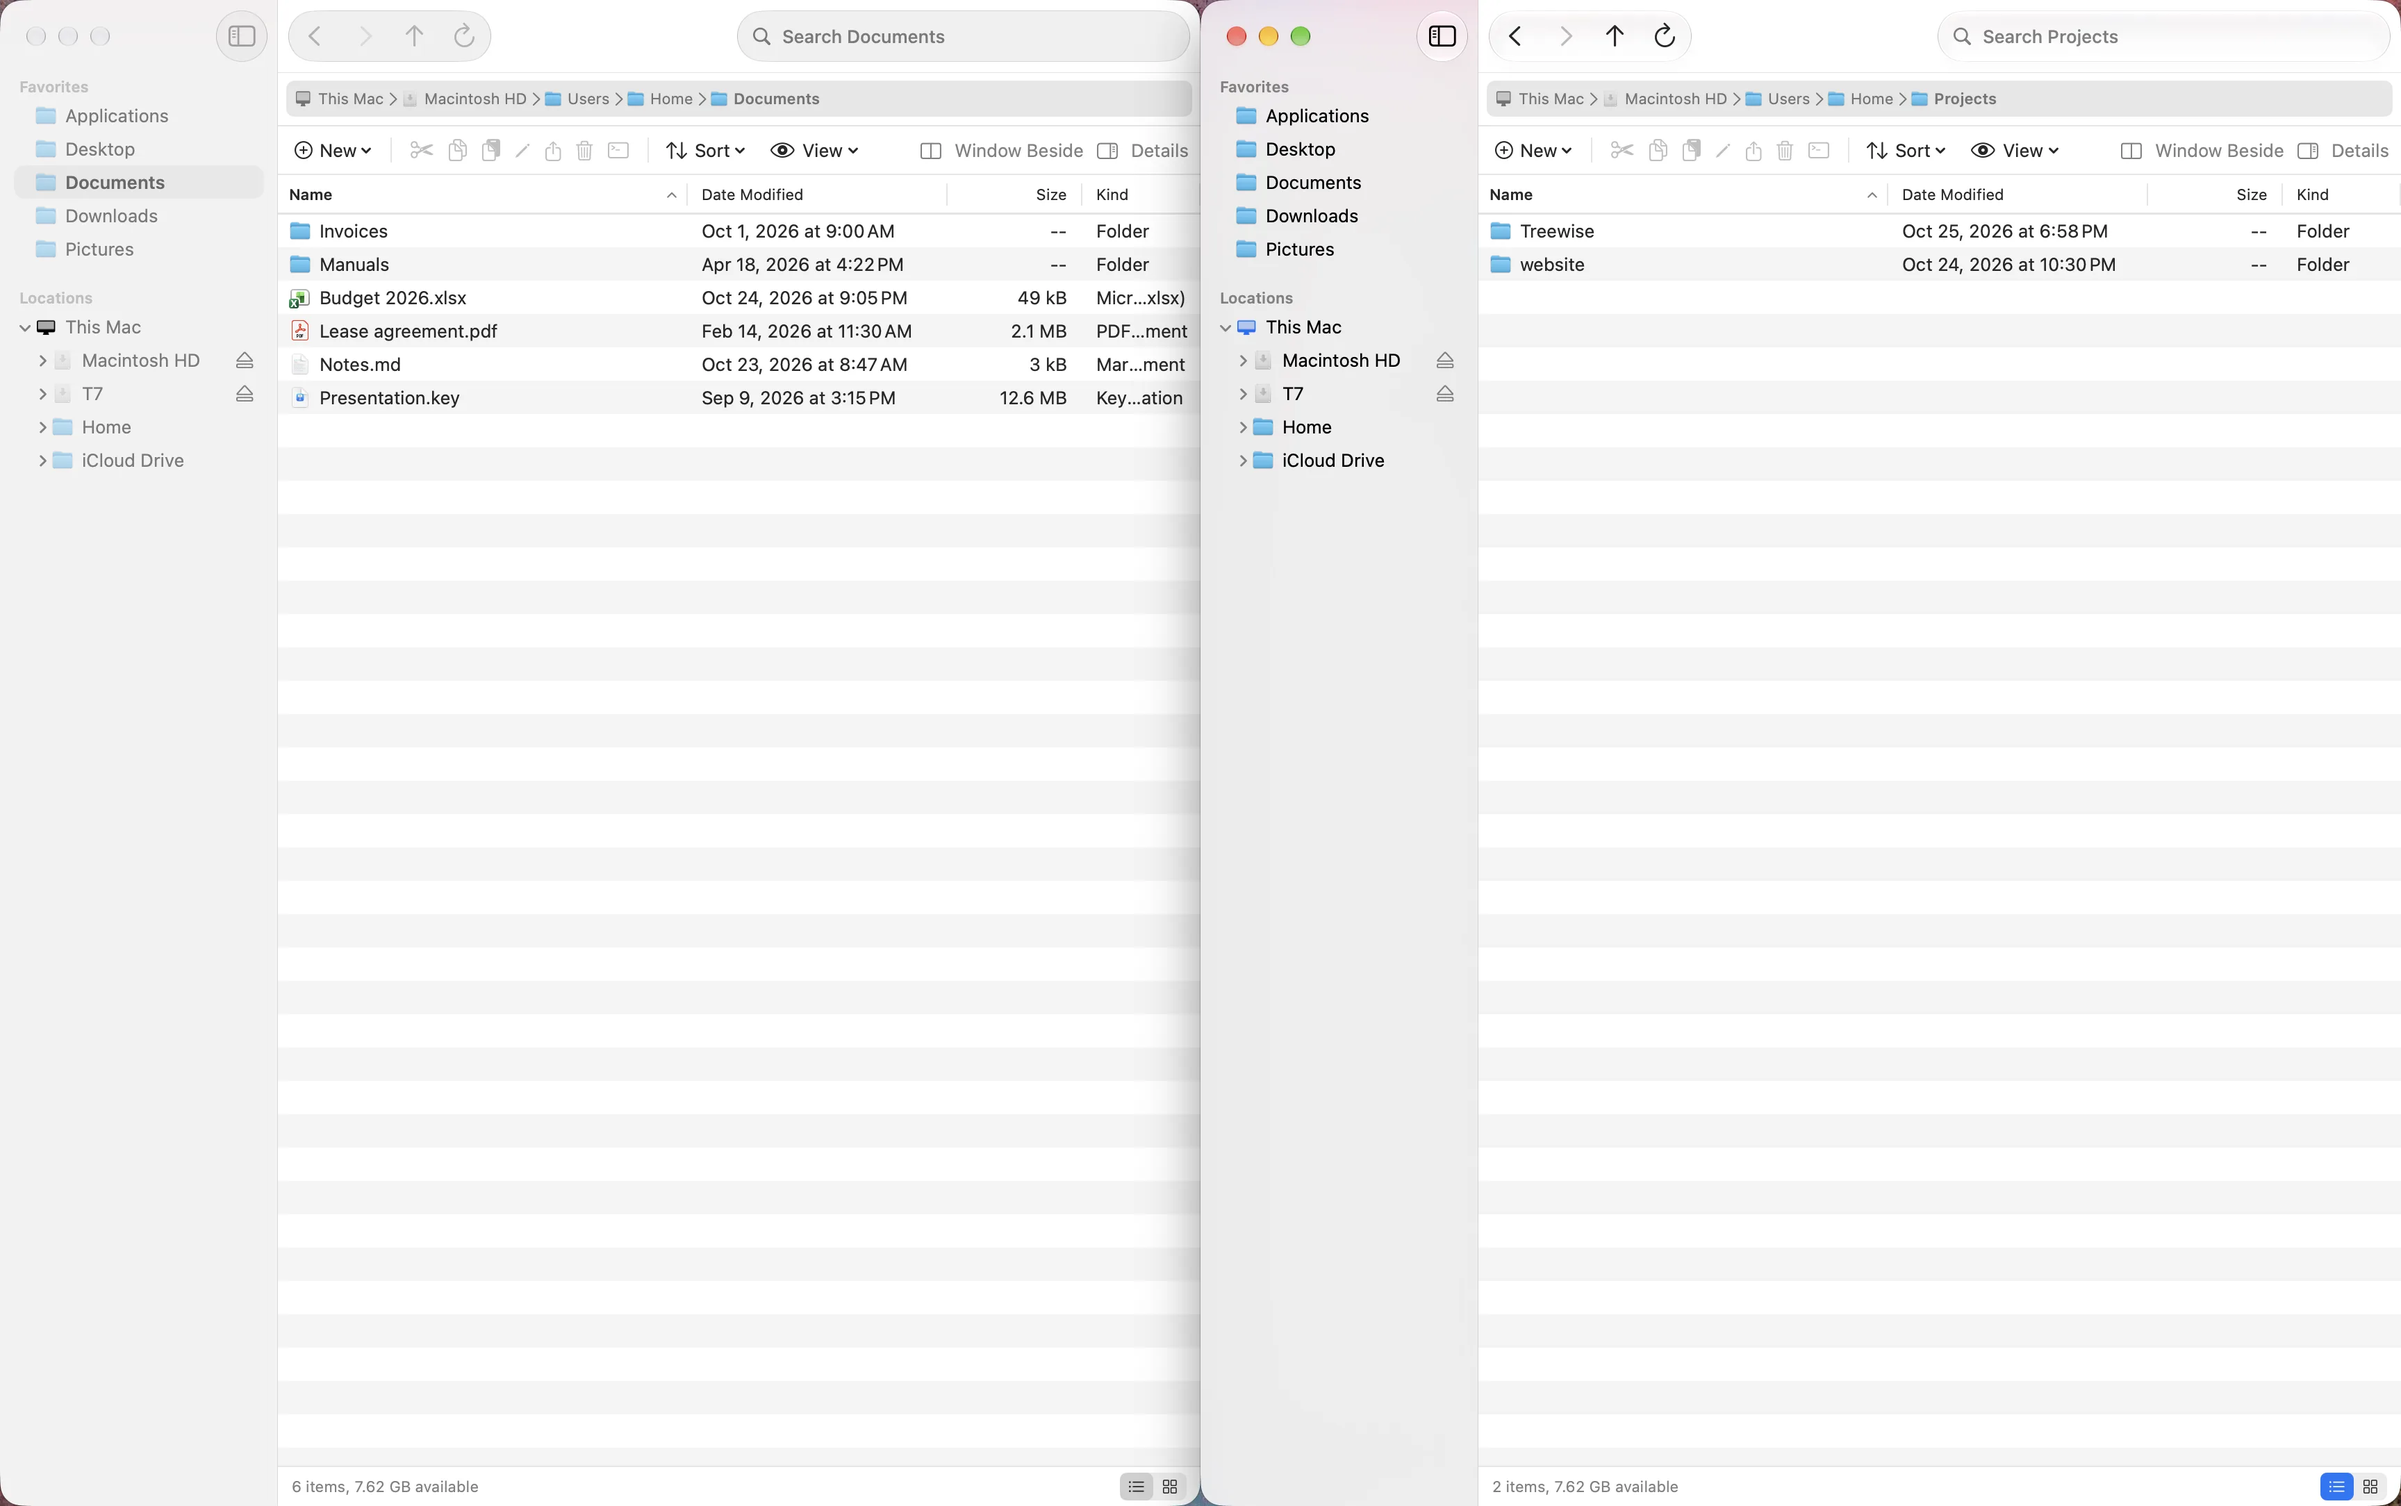
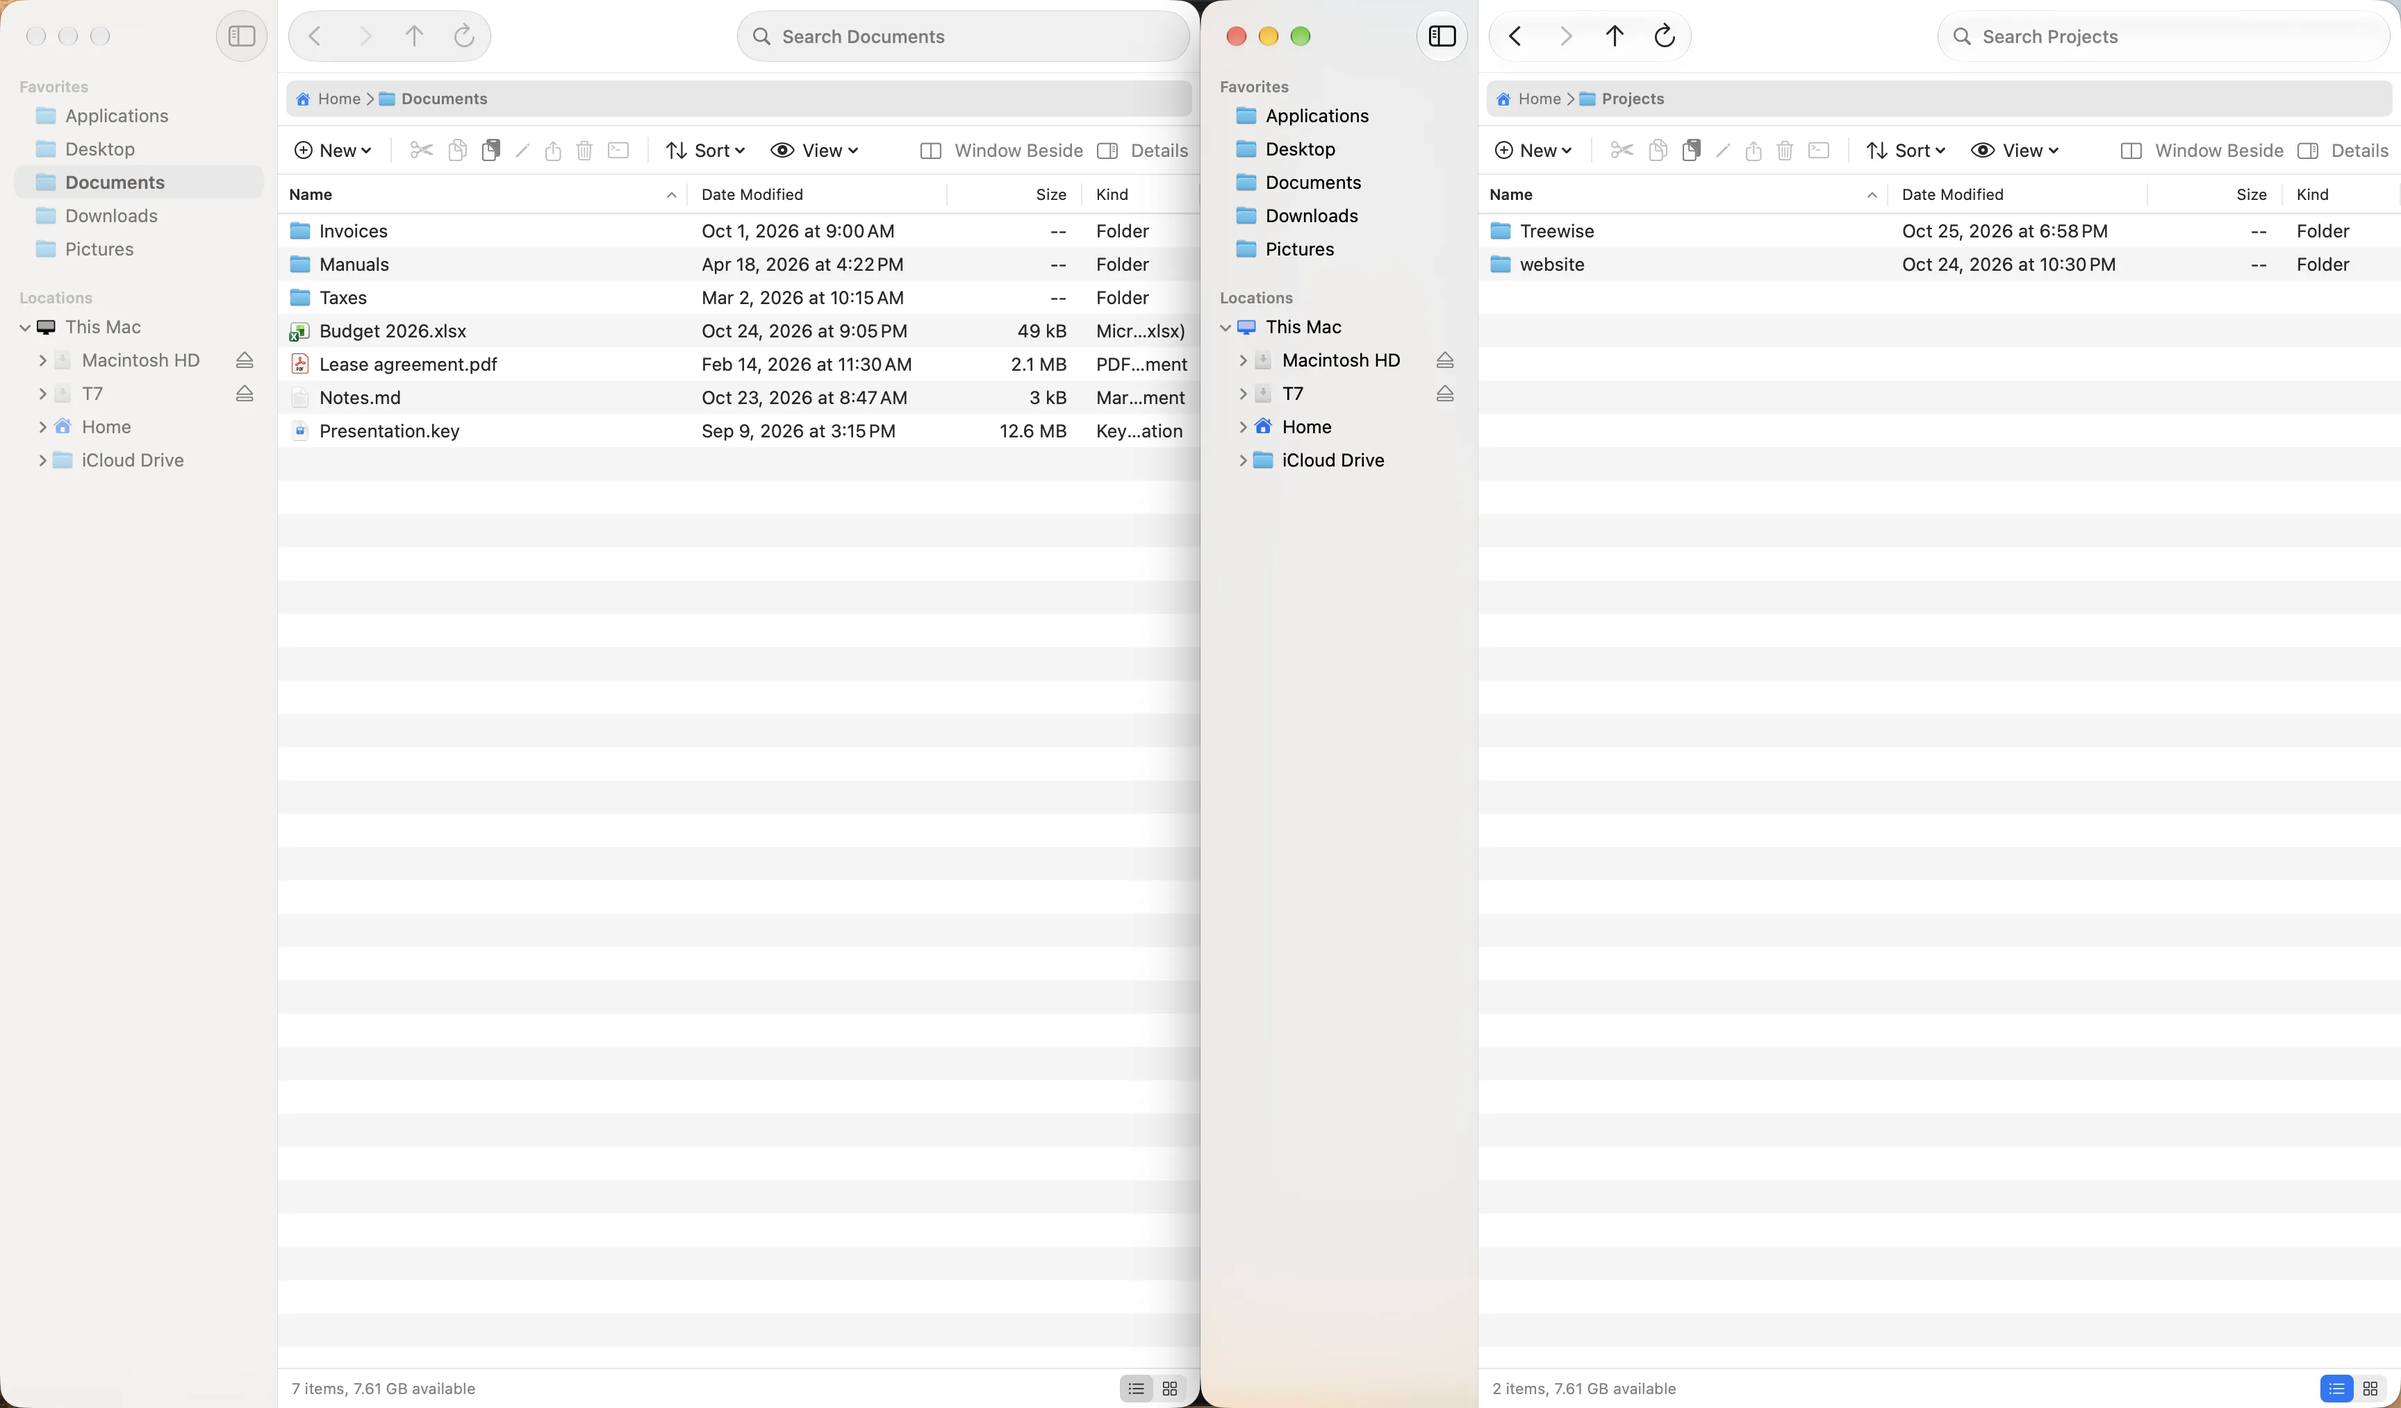
docs(site): screenshots with the short address bar and a fuller names overview

diff --git a/index.html b/index.html
@@ -147,7 +147,7 @@ details[open] > summary .chevron { transform: translateY(-2px) rotate(45deg); }
       </ul>
       <picture>
         <source srcset="images/04-beside-dark.webp" media="(prefers-color-scheme: dark)">
-        <img class="shot" loading="lazy" src="images/04-beside-light.webp" width="2000" height="1250" alt="Two Treewise windows side by side, each on half of the screen.">
+        <img class="shot" loading="lazy" src="images/04-beside-light.webp" width="3456" height="2028" alt="Two Treewise windows side by side, each on half of the screen.">
       </picture></div>
     </details></li>
 
@@ -161,7 +161,7 @@ details[open] > summary .chevron { transform: translateY(-2px) rotate(45deg); }
       </ul>
       <picture>
         <source srcset="images/05-names-dark.webp" media="(prefers-color-scheme: dark)">
-        <img class="shot" loading="lazy" src="images/05-names-light.webp" width="1440" height="840" alt="Suggest Names for a folder of tax letters: the pattern recognized in its names, a name with a typo offered written right, and a letter offered a name in the same pattern.">
+        <img class="shot" loading="lazy" src="images/05-names-light.webp" width="1960" height="1304" alt="Suggest Names for a folder of tax letters: the pattern recognized in its names, a name with a typo offered written right, a letter offered a name in the same pattern, and the files that already fit.">
       </picture></div>
     </details></li>
 
